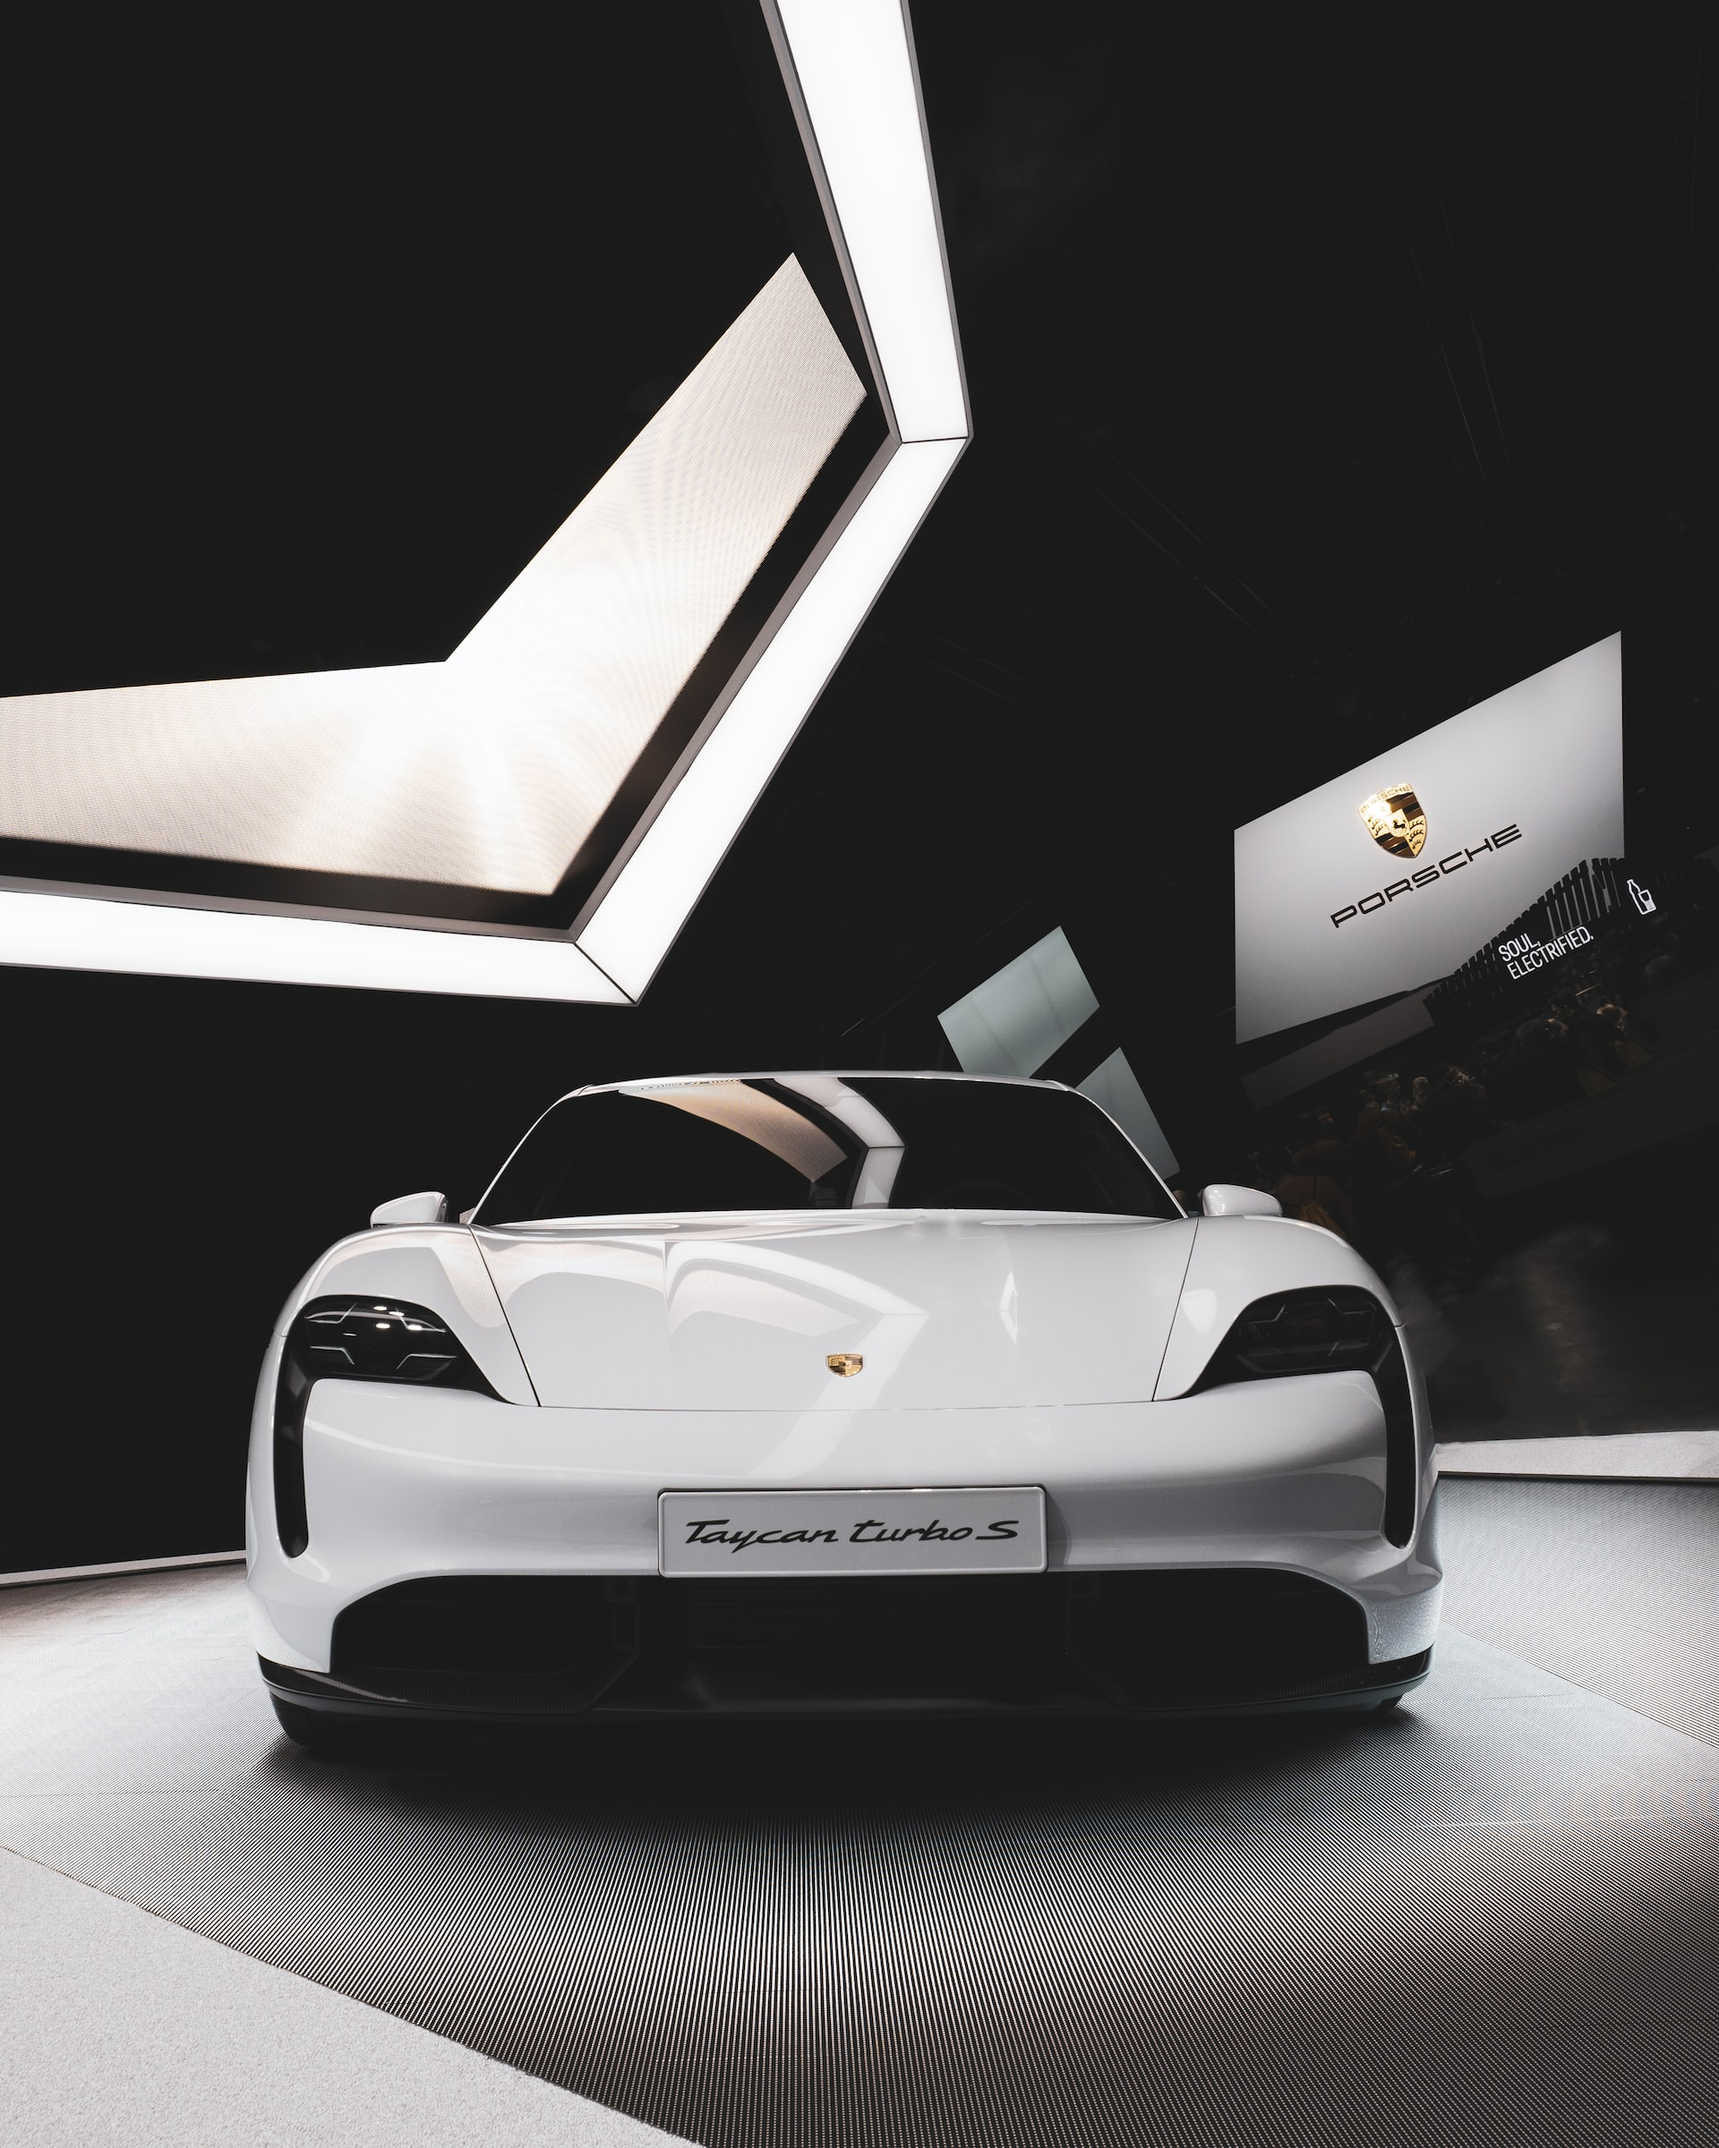
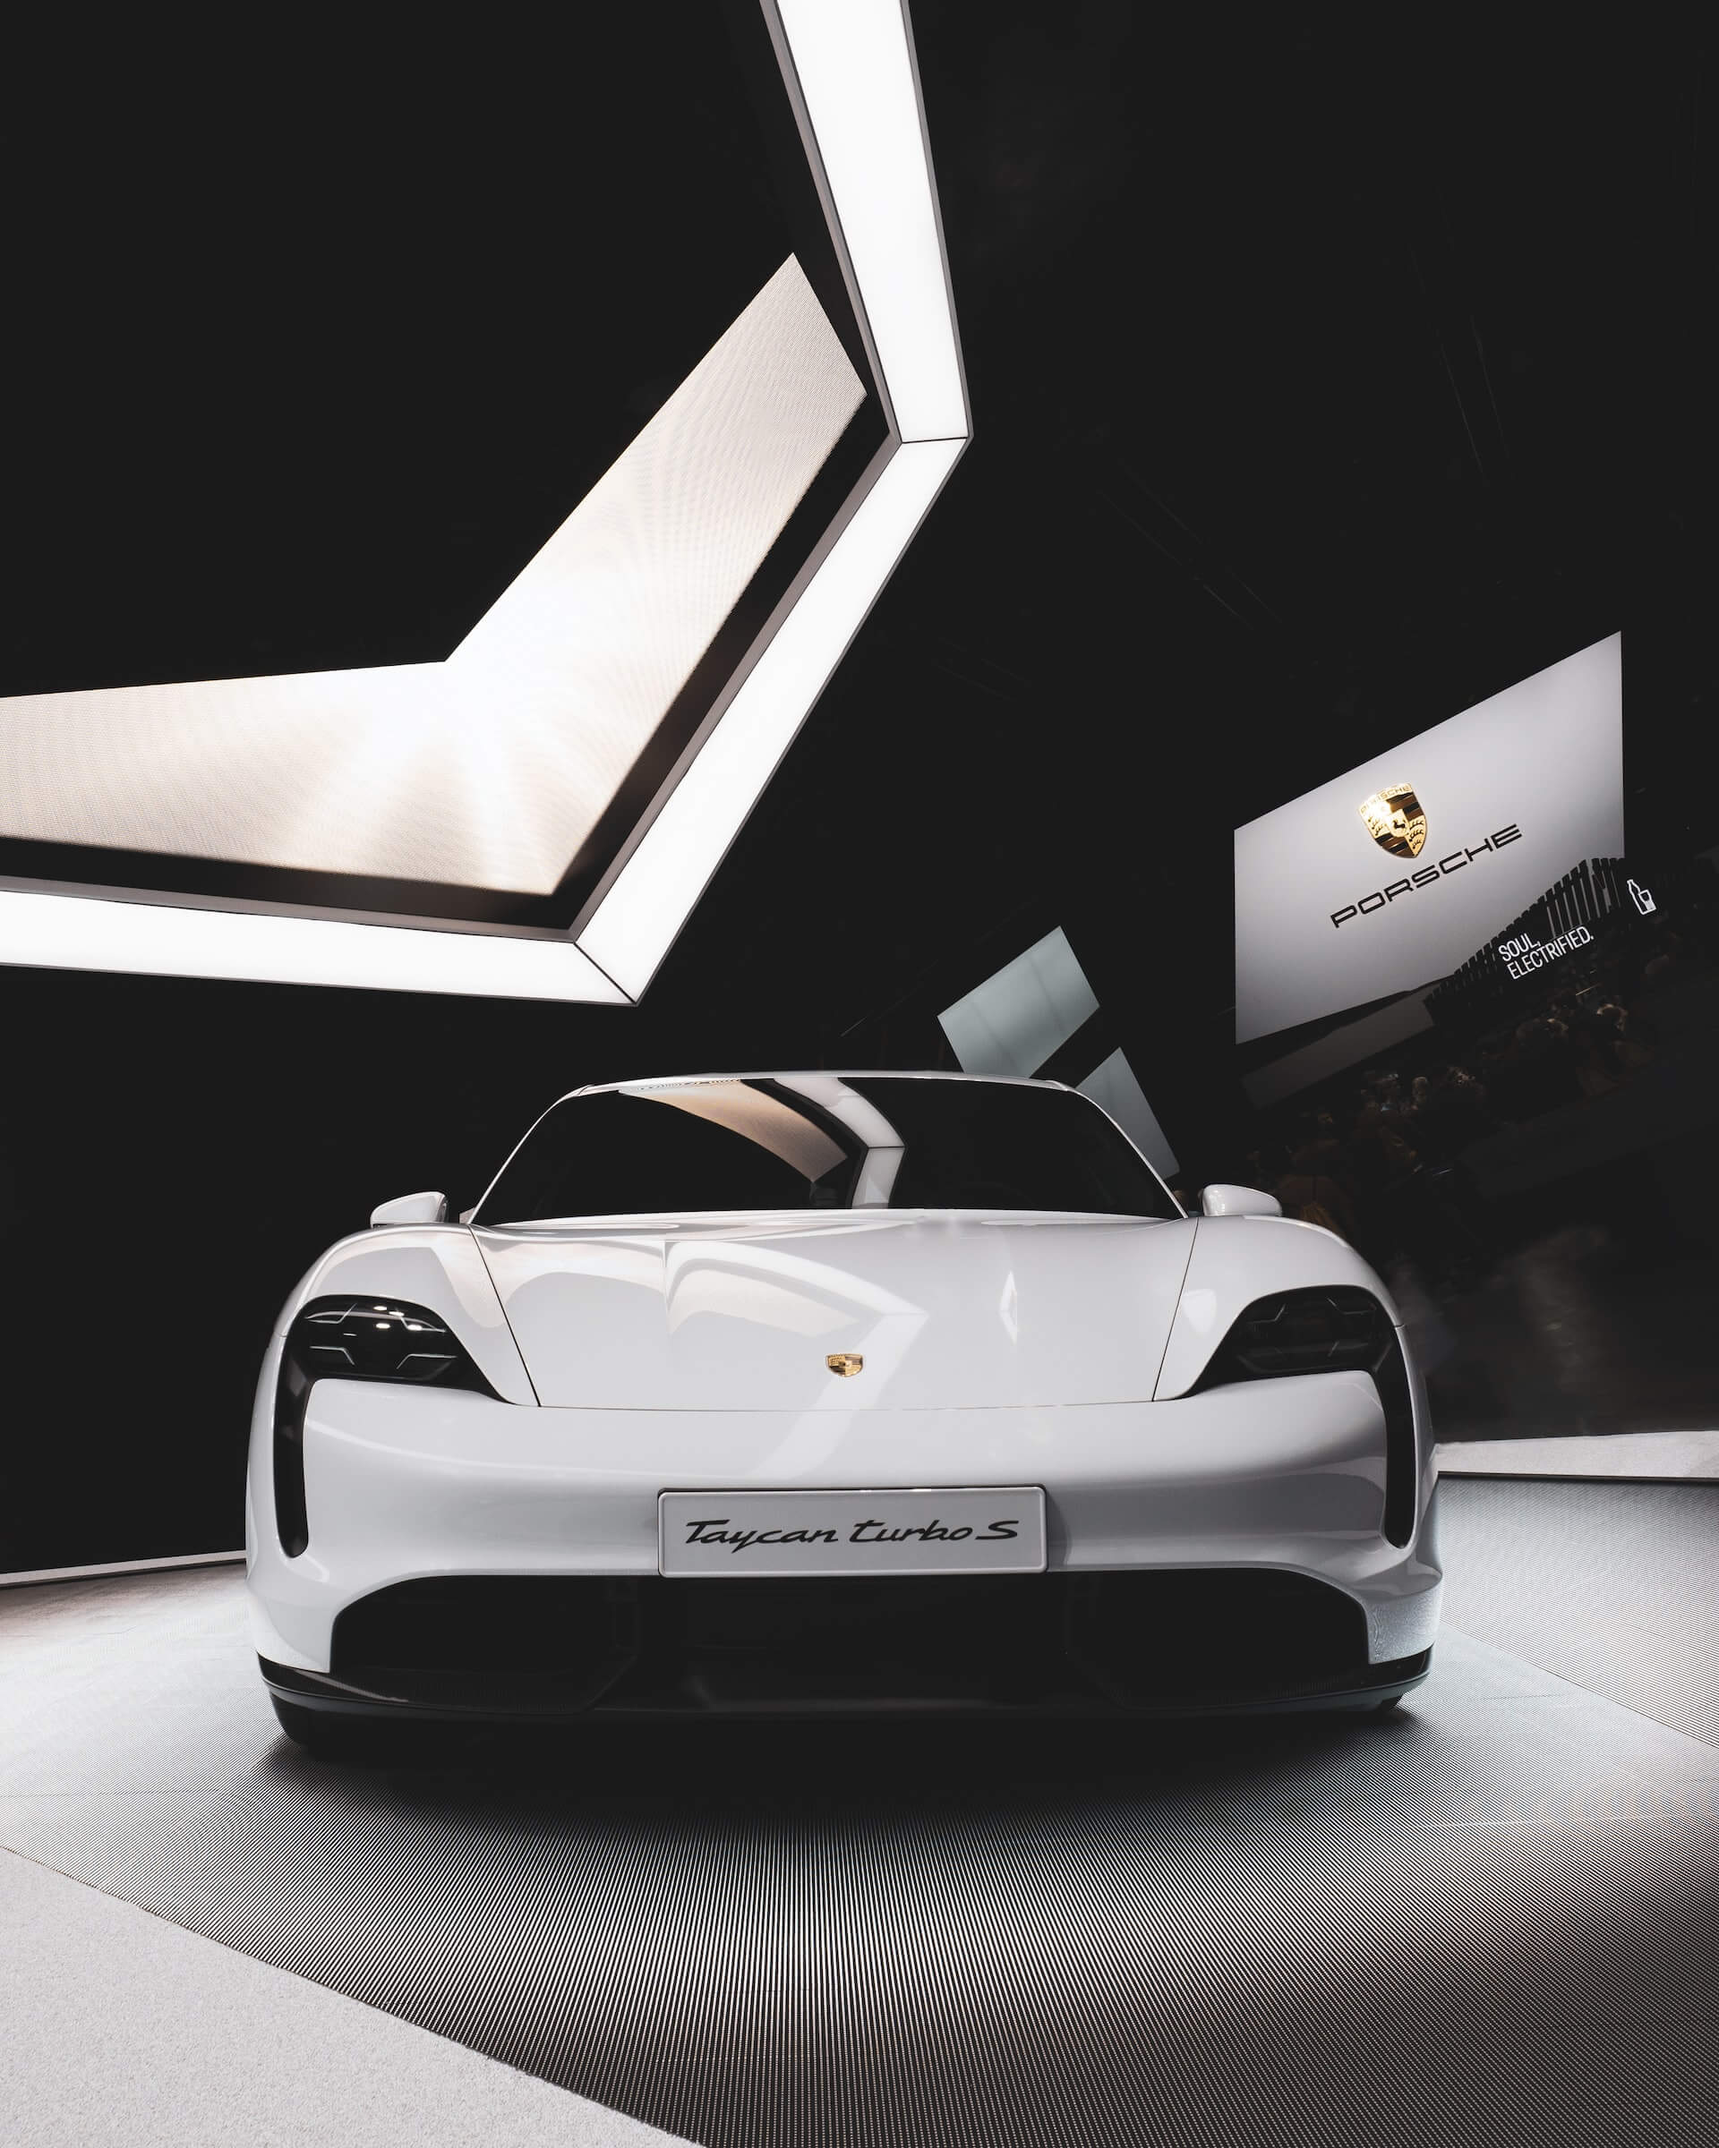
Optimize image and loader

diff --git a/src/App.jsx b/src/App.jsx
@@ -1,37 +1,41 @@
 import { Environment, MeshReflectorMaterial } from "@react-three/drei";
 import { Canvas } from "@react-three/fiber";
-import { Suspense } from "react";
+import React, { Suspense } from "react";
 import Background from "./components/Background";
-import Frames from "./components/Frames";
 import Texts from "./components/Texts";
 
-export const App = ({ images }) => (
+const Frames = React.lazy(() => import('./components/Frames'));
+
+const App = ({ images }) => (
   <Canvas dpr={[1, 1.5]} camera={{ fov: 70, position: [0, 2, 15] }}>
     <color attach="background" args={["#24172F"]} />
 
     <group position={[0, -0.5, 0]}>
-      <Frames images={images} />
       <Suspense fallback={null}>
+        <Frames images={images} />
         <Background />
+
+        <mesh position={[0, -0.1, 0]} rotation={[-Math.PI / 2, 0, 0]}>
+          <circleGeometry args={[8, 20]} />
+          <MeshReflectorMaterial
+            blur={[300, 100]}
+            resolution={2048}
+            mixBlur={1}
+            mixStrength={15}
+            roughness={0.99}
+            depthScale={1.1}
+            minDepthThreshold={0.4}
+            maxDepthThreshold={1.3}
+            color="#192727"
+            metalness={0.8}
+          />
+        </mesh>
       </Suspense>
-      <mesh position={[0, -0.1, 0]} rotation={[-Math.PI / 2, 0, 0]}>
-        <circleGeometry args={[8, 20]} />
-        <MeshReflectorMaterial
-          blur={[300, 100]}
-          resolution={2048}
-          mixBlur={1}
-          mixStrength={15}
-          roughness={0.99}
-          depthScale={1.1}
-          minDepthThreshold={0.4}
-          maxDepthThreshold={1.3}
-          color="#192727"
-          metalness={0.8}
-        />
-      </mesh>
     </group>
 
     <Texts />
     <Environment preset="forest" />
   </Canvas>
 );
+
+export default App;

diff --git a/src/main.jsx b/src/main.jsx
@@ -1,11 +1,11 @@
 import React from 'react'
 import ReactDOM from 'react-dom/client'
-import { App } from './App'
+import App from './App'
 import './index.css'
-import lamborghini from '/src/assets/images/lamborghini.jpg'
 import bugatti from '/src/assets/images/bugatti.jpg'
-import porsche from '/src/assets/images/porsche.jpg'
+import lamborghini from '/src/assets/images/lamborghini.jpg'
 import mercedes from '/src/assets/images/mercedes.jpg'
+import porsche from '/src/assets/images/porsche.jpg'
 
 const images = [
   { position: [-2.15, 0, 1.5], rotation: [0, Math.PI / 2.5, 0], url: lamborghini, item: 'Lamborghini' },
